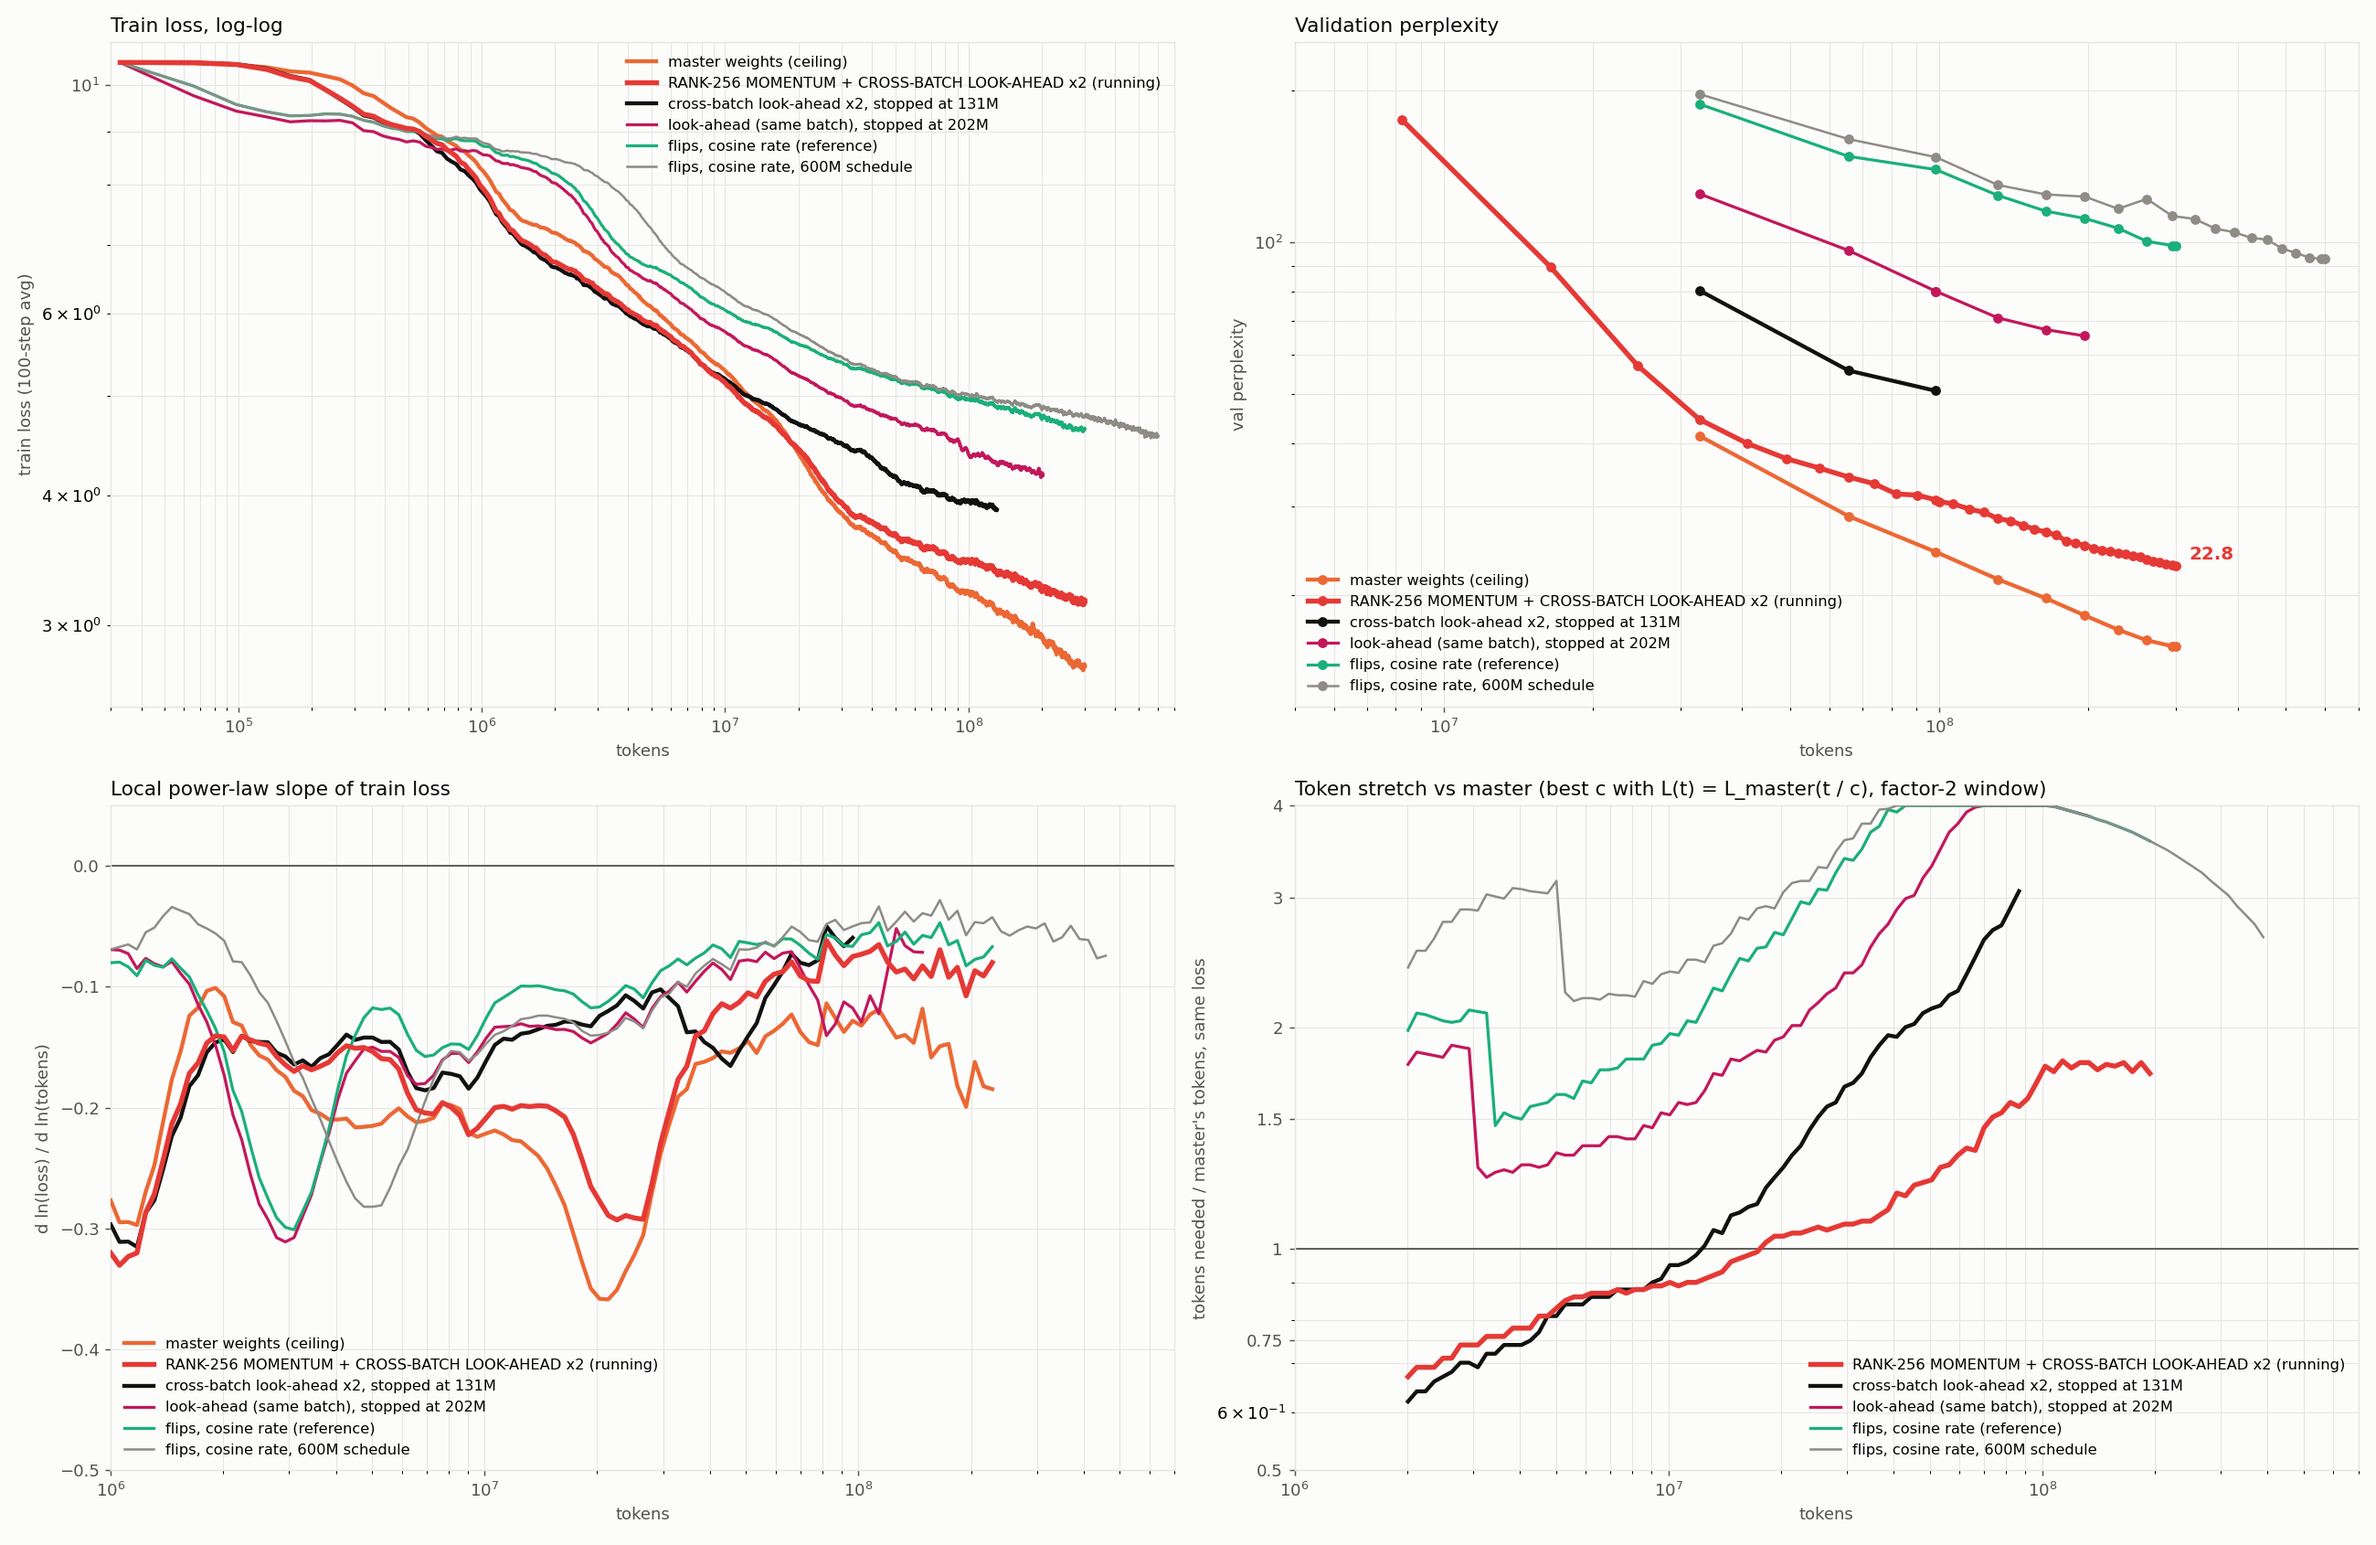
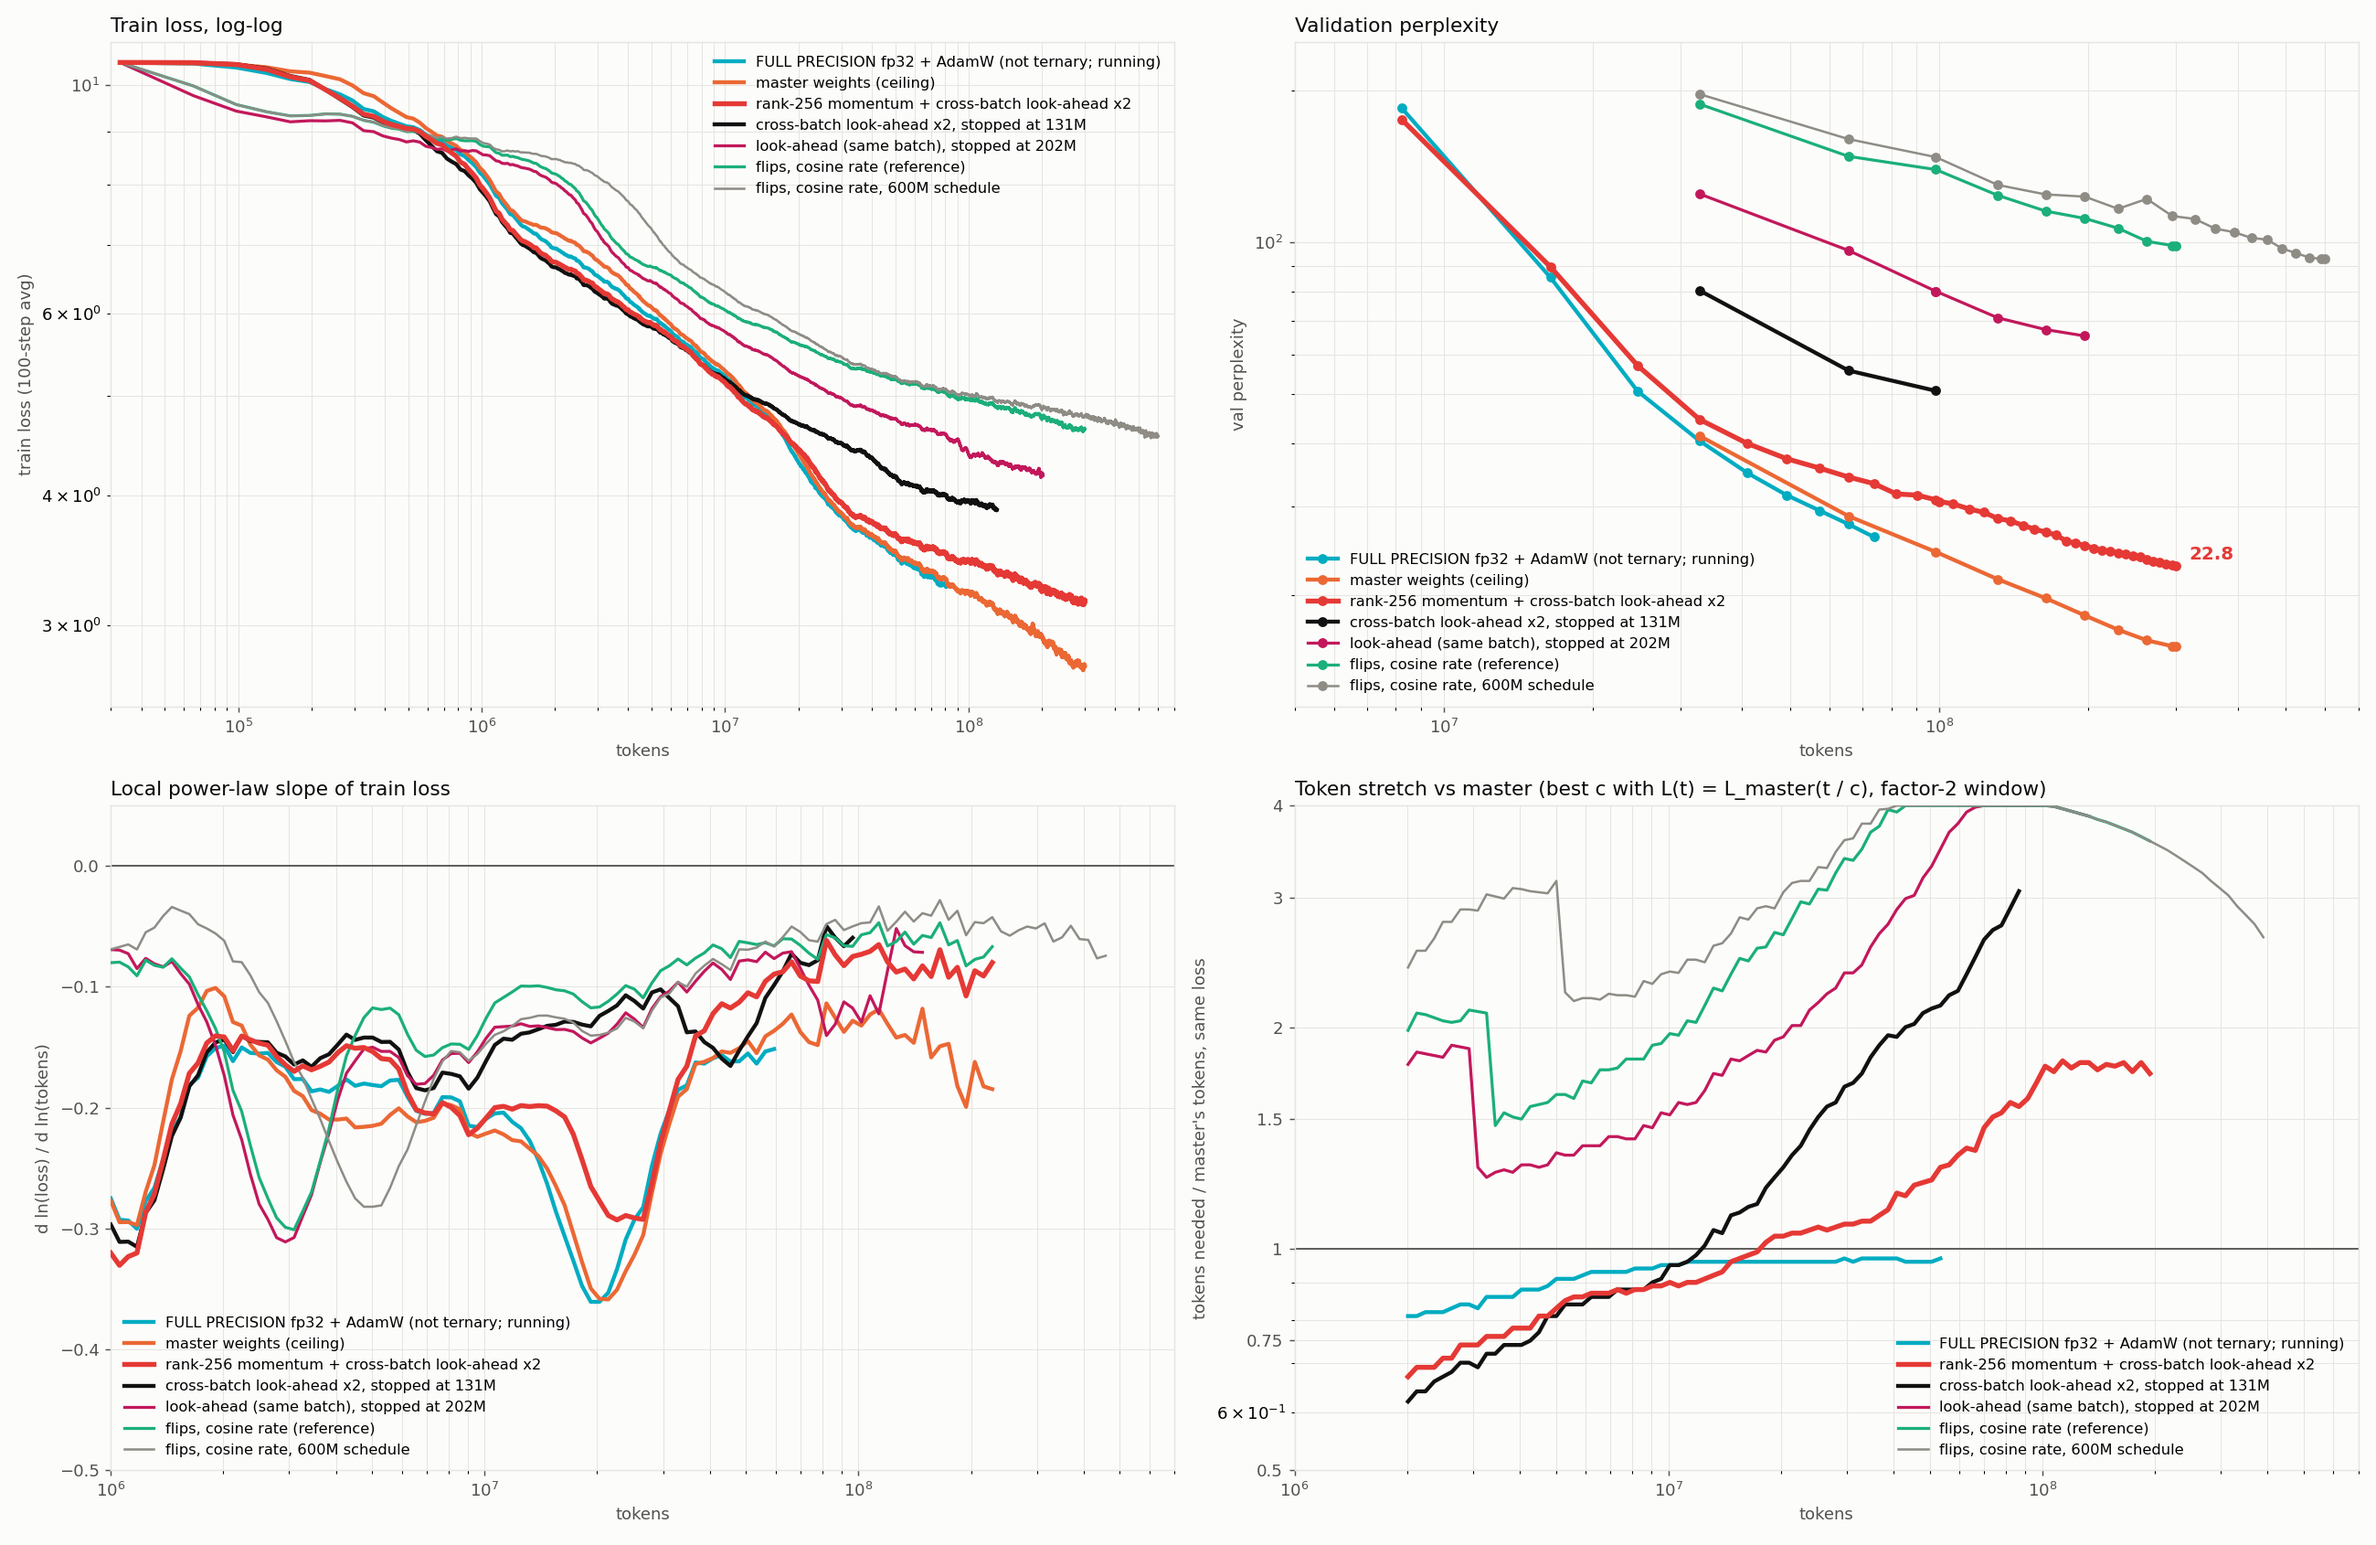
fp32 baseline on the live and all-runs plots

diff --git a/scripts/plots/plot_all.py b/scripts/plots/plot_all.py
@@ -15,14 +15,15 @@ SURFACE, INK, INK2, GRID = "#fcfcfb", "#0b0b0b", "#52514e", "#e6e5e1"
 
 # (group label, color, best run shown as line, [member runs])
 GROUPS = [
+    ("full precision fp32 + AdamW (not ternary)", "#00acc1", "fp32_baseline", ["fp32_baseline"]),
     ("master weights + AdamW (ceiling)", "#eb6834", "p2_baseline", ["p2_baseline"]),
     ("stateless look-ahead filter", "#c2185b", "armA_cos_la1",
      ["armA_cos_la1", "la1", "la2", "la_rwarm", "la_r0ramp"]),
     ("cross-batch look-ahead (2 passes) + fast ramp + fp32 tail", "#111111",
      "overnight_full", ["overnight_full", "la_xb1", "la_xb2", "la_xb2_rc", "la_fastramp_lr15",
                         "la_fast_fp32tail"]),
-    ("rank-256 momentum + cross-batch look-ahead x2", "#e53935", "lm_lowrank256_xb2",
-     ["lm_lowrank256_xb2", "lm_lowrank256_adapt_xb2"]),
+    ("rank-256 momentum + cross-batch look-ahead x2", "#e53935", "lm_lowrank256_xb2_100M",
+     ["lm_lowrank256_xb2_100M", "lm_lowrank256_xb2", "lm_lowrank256_adapt_xb2"]),
     ("rank-256 momentum, no look-ahead", "#9575cd", "lm_lowrank256",
      ["lm_lowrank256", "lm_lowrank256_r04", "lm_lowrank256_r1", "lm_lowrank256_adapt"]),
     ("frozen random ternary (no flips)", "#b8b6b0", "lm_frozen", ["lm_frozen"]),

diff --git a/scripts/plots/plot_live.py b/scripts/plots/plot_live.py
@@ -10,8 +10,9 @@ import matplotlib.pyplot as plt
 
 SURFACE, INK, INK2, GRID = "#fcfcfb", "#0b0b0b", "#52514e", "#e6e5e1"
 RUNS = [  # dir, label, color, width, highlight
+    ("fp32_baseline", "FULL PRECISION fp32 + AdamW (not ternary; running)", "#00acc1", 2.4, False),
     ("p2_baseline",   "master weights (ceiling)",           "#eb6834", 2.4, False),
-    ("lm_lowrank256_xb2_100M", "RANK-256 MOMENTUM + CROSS-BATCH LOOK-AHEAD x2 (running)", "#e53935", 3.0, True),
+    ("lm_lowrank256_xb2_100M", "rank-256 momentum + cross-batch look-ahead x2", "#e53935", 3.0, True),
     ("overnight_full", "cross-batch look-ahead x2, stopped at 131M", "#111111", 2.4, False),
     ("armA_cos_la1",  "look-ahead (same batch), stopped at 202M", "#c2185b", 1.8, False),
     ("armA_cosine",   "flips, cosine rate (reference)",     "#1baf7a", 1.8, False),
